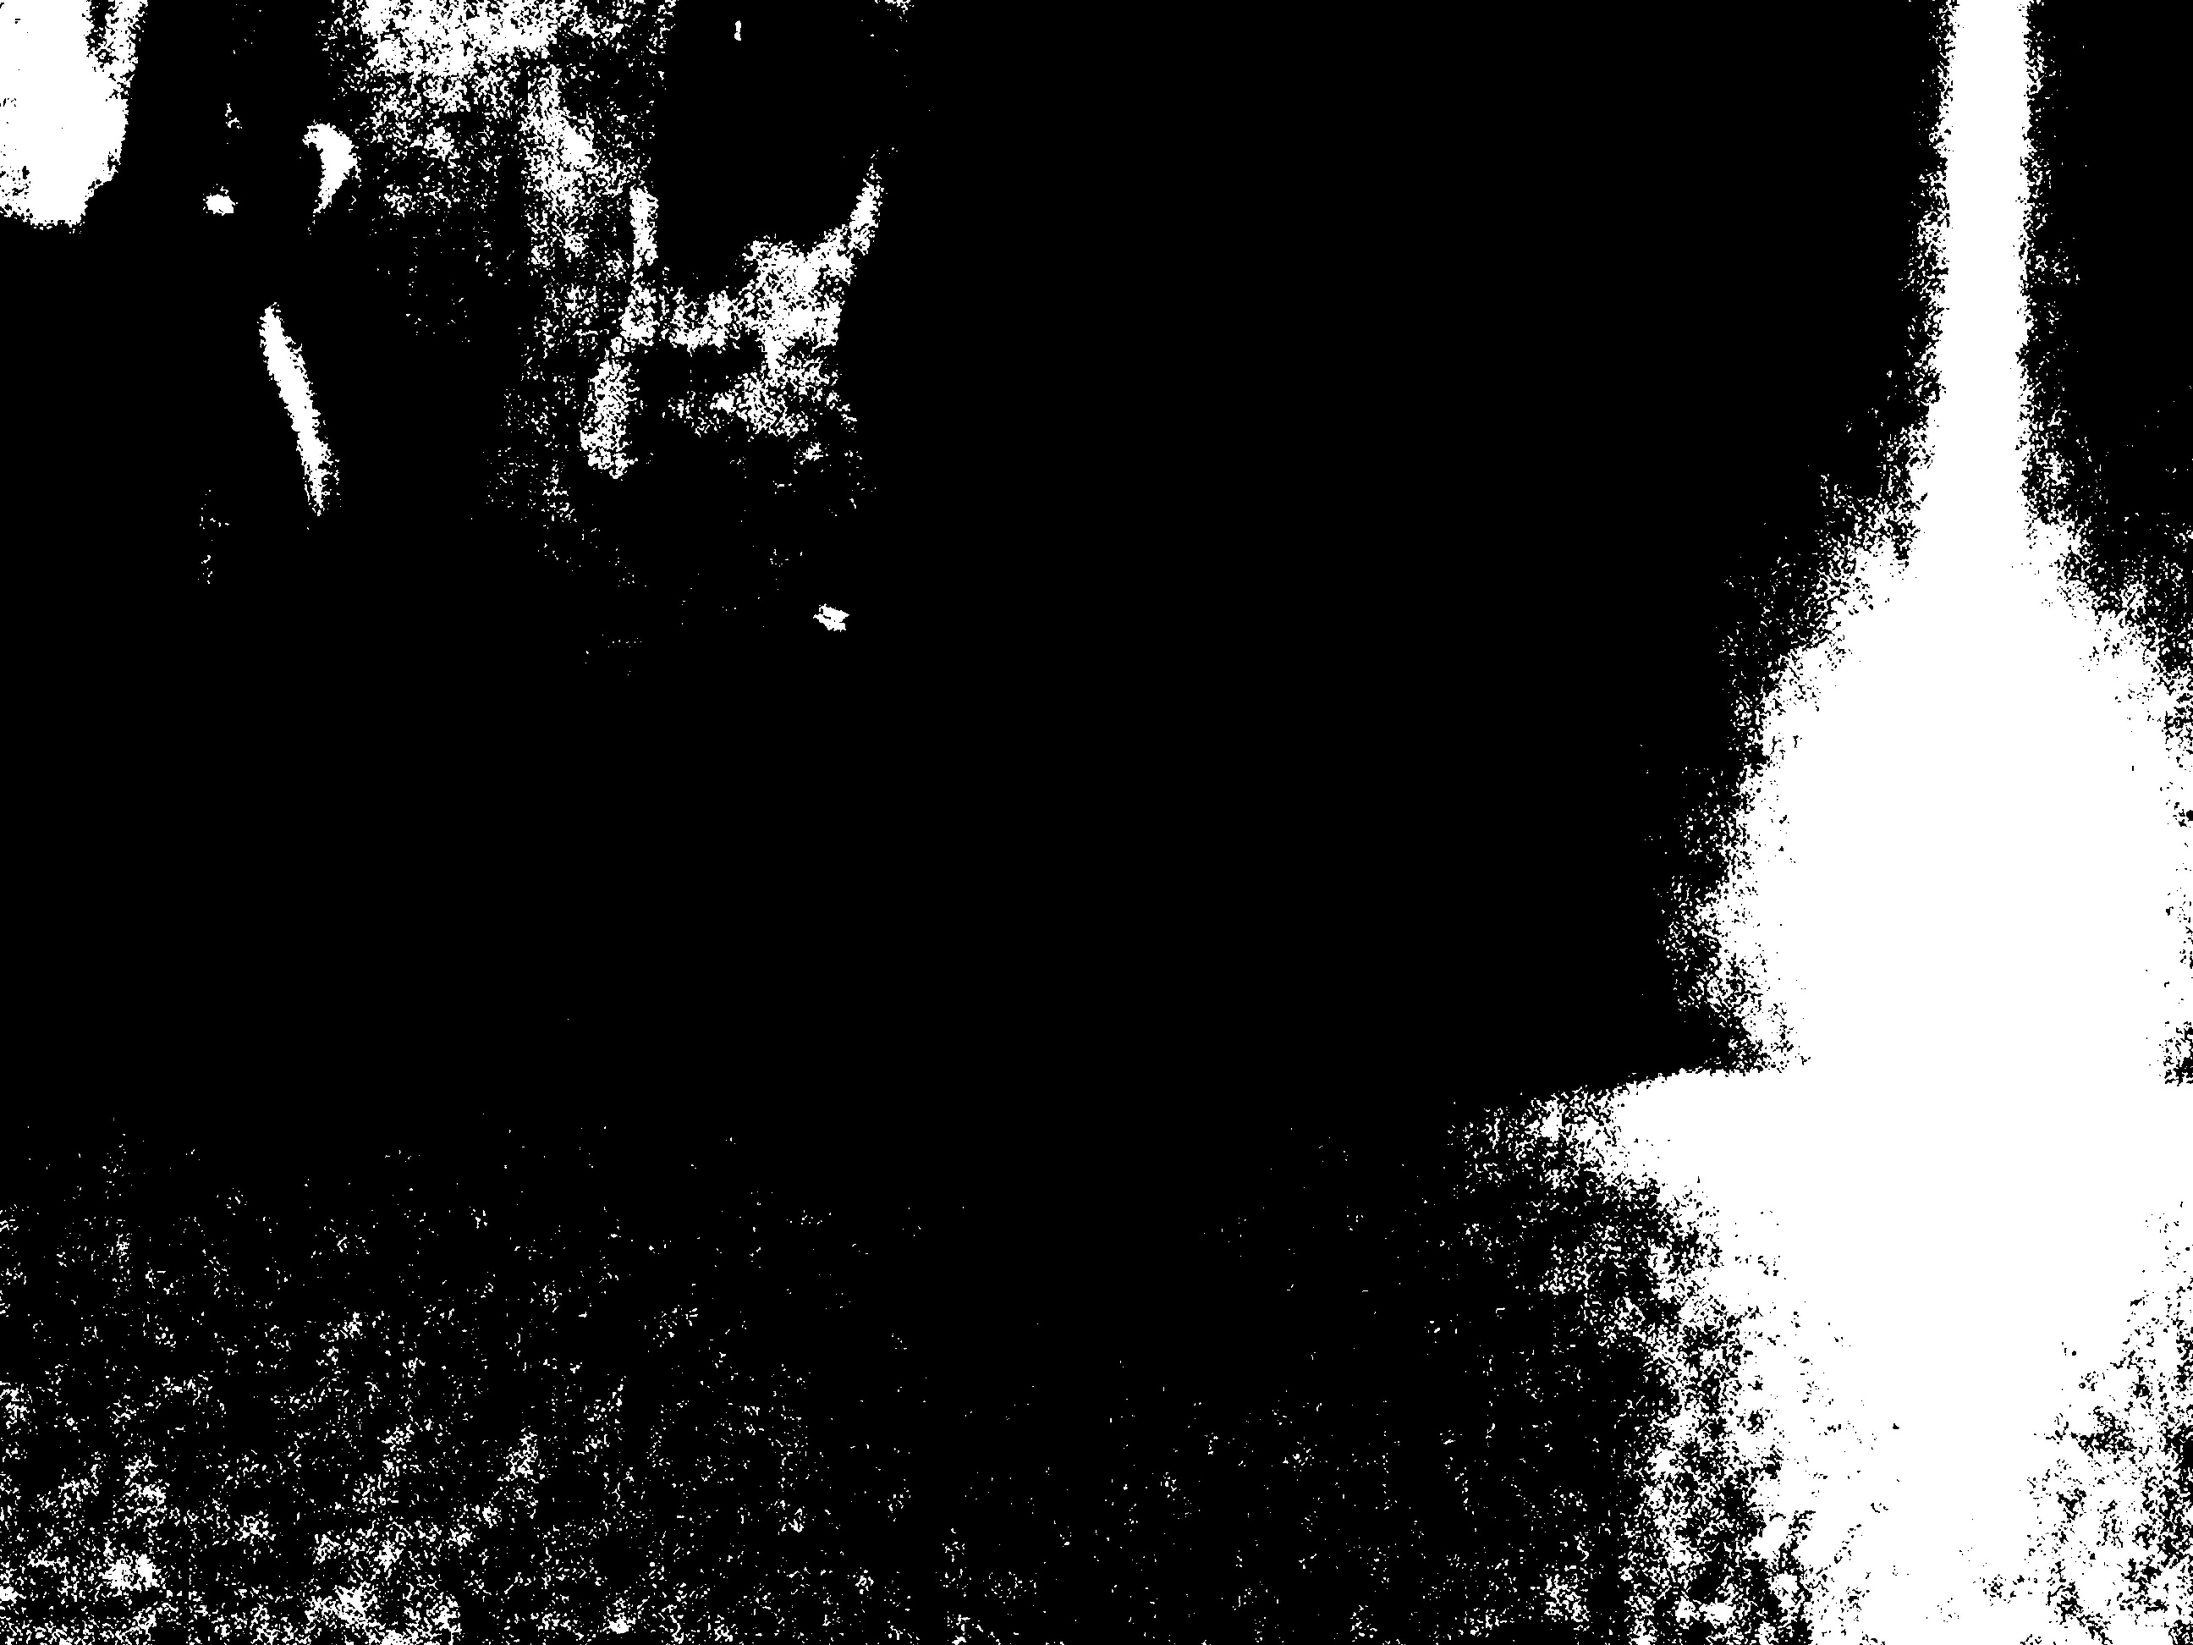
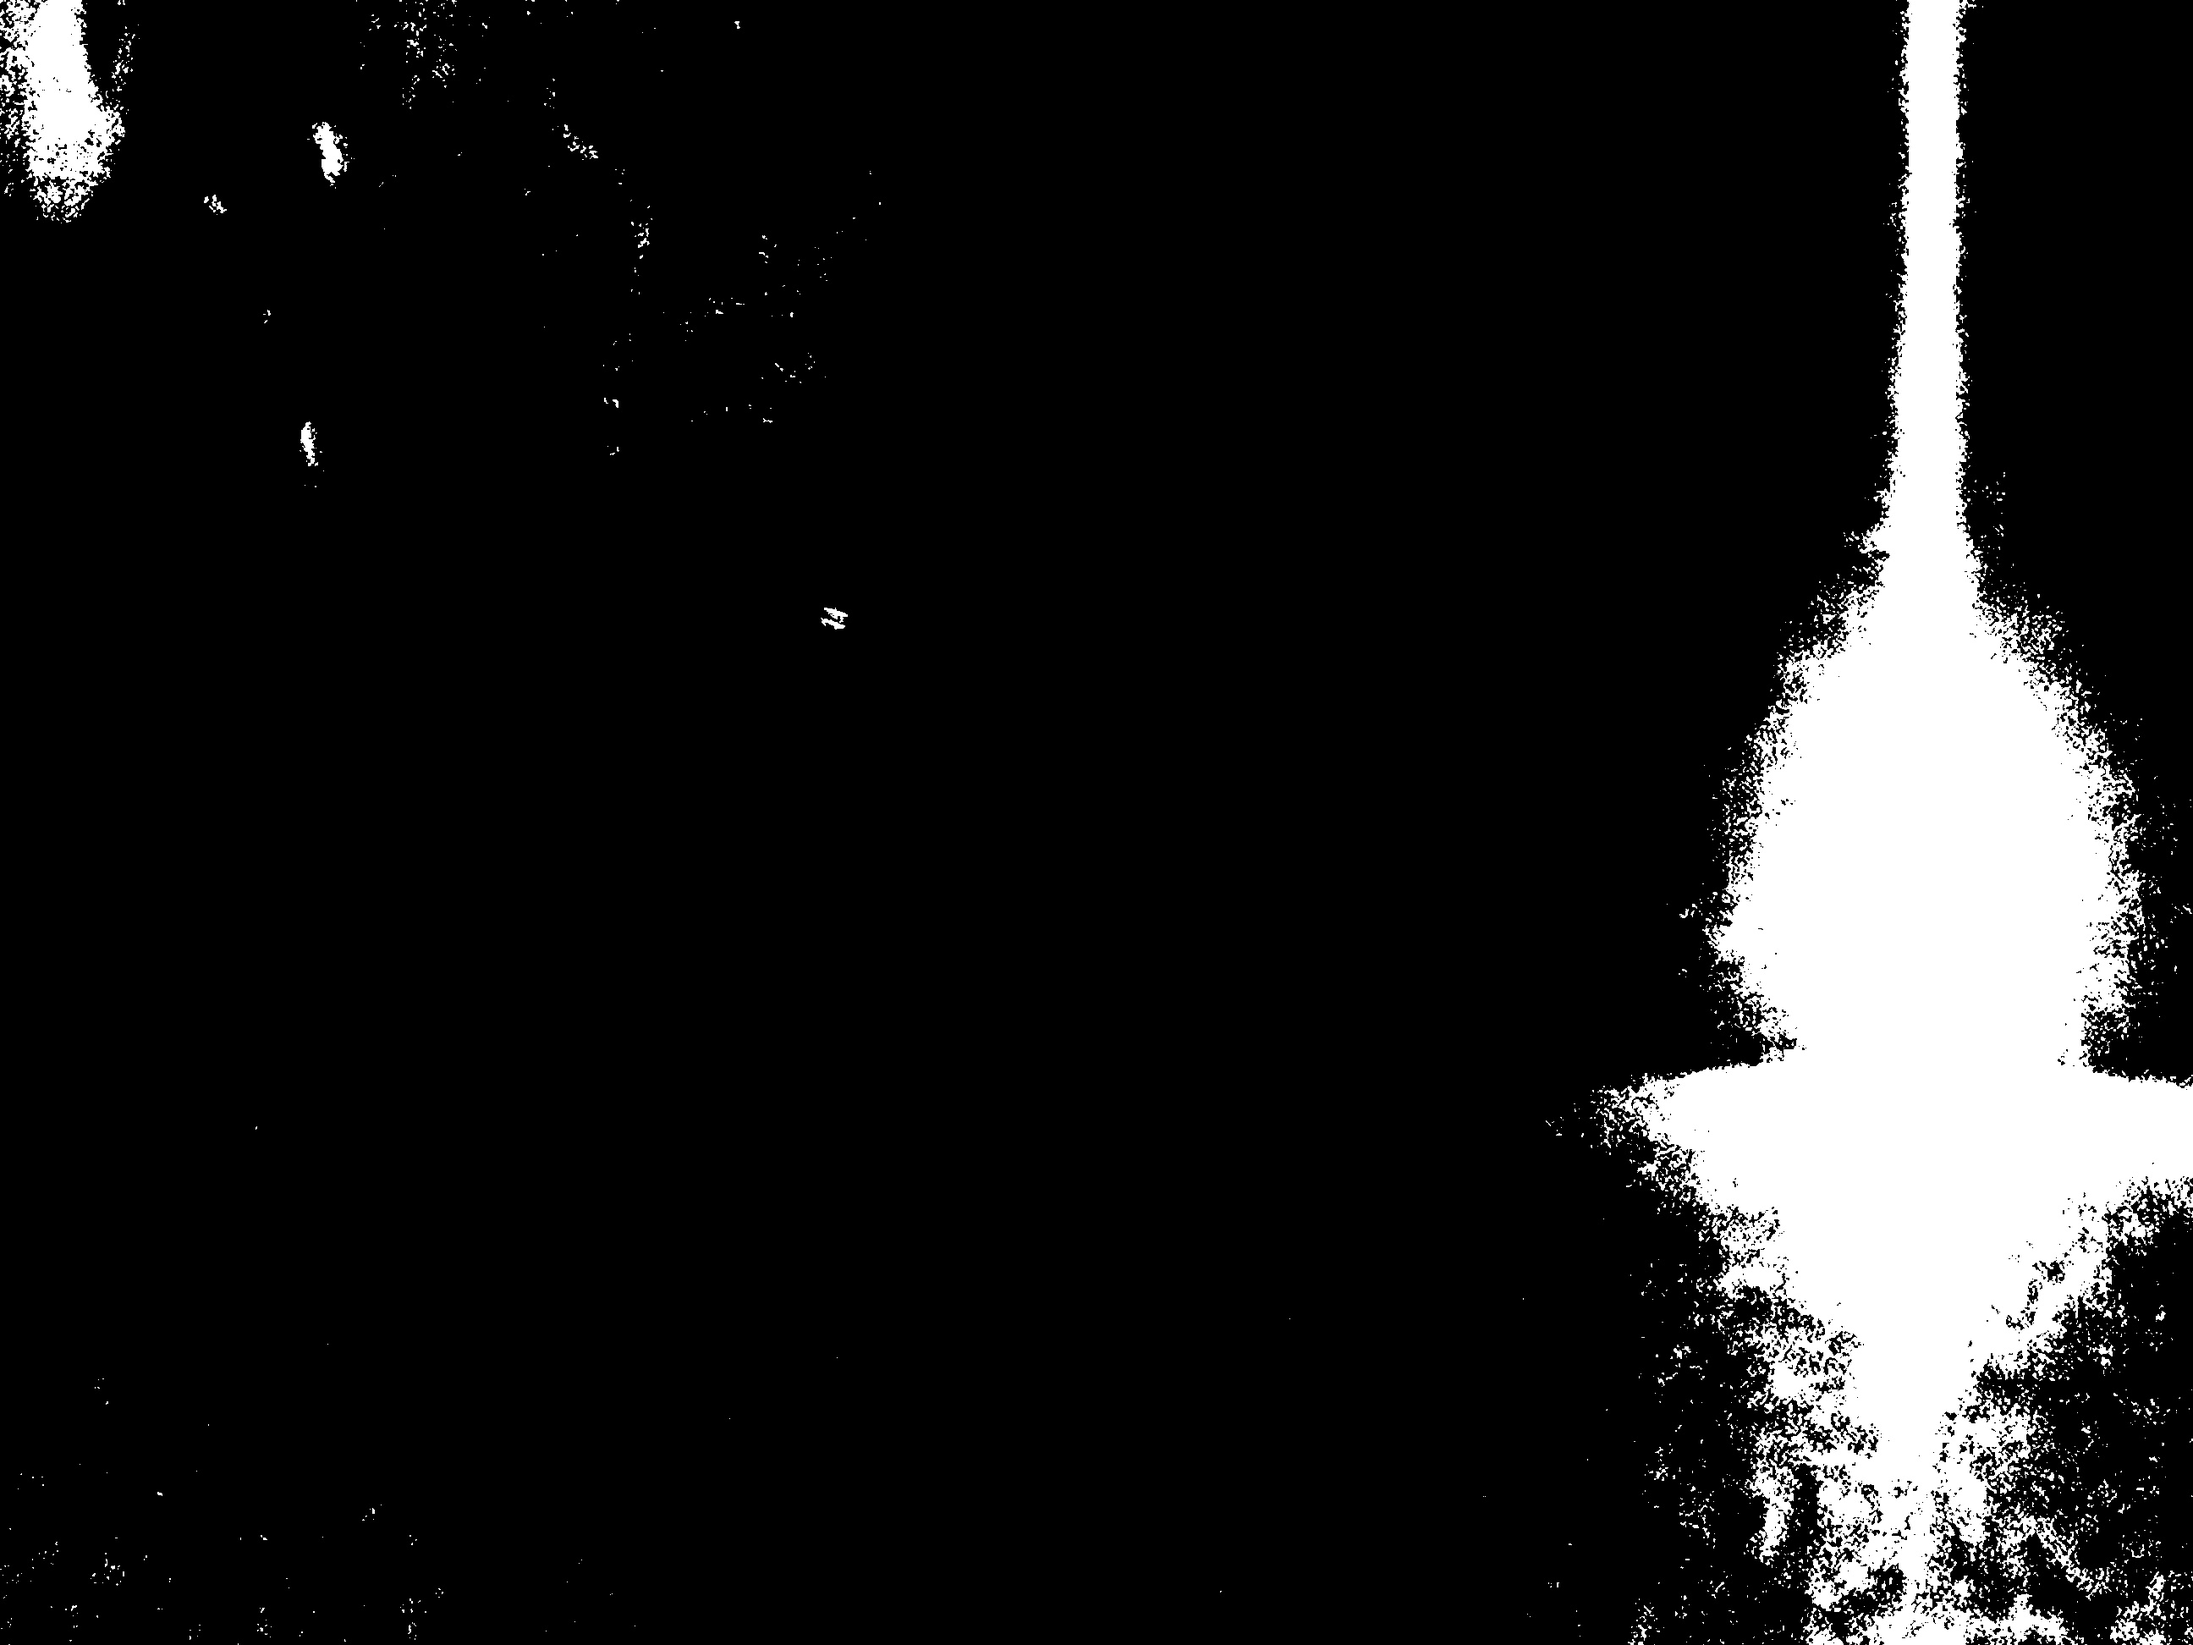
some changes

diff --git a/Sources/Onboard_computer/Scanner_laser/scanner.py b/Sources/Onboard_computer/Scanner_laser/scanner.py
@@ -54,7 +54,7 @@ class Scanner:
         self.camera.awb_gains = (4, 2)
 
         # Init mask threshold
-        self.lower_red = np.array([0, 0, 90])
+        self.lower_red = np.array([0, 0, 100])
         self.upper_red = np.array([255, 255, 255])
 
     # Get the picture
